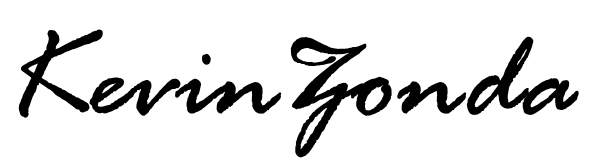
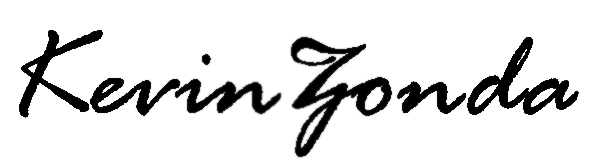
fix signature

diff --git a/index.html b/index.html
@@ -2,62 +2,54 @@
 <html lang="en-GB">
 
 <head>
+    <meta charset="utf-8" />
     <title>Certification | Home University Sussex</title>
     <link href="assets/css/style.css" type="text/css" rel="stylesheet" />
+    <meta name="viewport"
+        content="width=device-width,user-scalable=no,initial-scale=1.0,maximum-scale=1.0,minimum-scale=1.0">
 </head>
 
 <body>
-    <div style="height: 40pt;">
-    </div>
 
-    <center>
-        <img class="logo" src="assets/imgs/HMUni.png"></img>
-    </center>
-
-    <div style="height: 40pt;"></div>
+    <img class="logo" src="assets/imgs/HMUni.png"></img>
 
     <content>
         <p>
             It is hereby certified that
         </p>
-        <p id="mention">
+        <p class="mention">
             {{Cert.Owner}}
         </p>
 
         <p>
             Was admitted to the Degree of
         </p>
-        <p id="mention">
+        <p class="mention">
             {{Cert.Degree}} of Lie Flat
         </p>
         <p style="font-style:italic;">
             with First Class Honours
         </p>
         <p>
-
             on the {{Cert.Date}}
         </p>
 
         </p>
     </content>
 
-    <div style="height: 40pt;"></div>
+    <div class="signature-box">
+        <img src="assets/imgs/kv.png"></img>
 
-    <div>
-        <div class="left">
-            <img class="signature" src="assets/imgs/kv.png"></img>
-            <p>
-                VICE-CHANCELLOR AND PRINCIPAL
-            </p>
-        </div>
-        <div class="right">
-            <img class="signature" src="assets/imgs/ak.png"></img>
-            <p>
-                REGISTRAR AND SECRETARY
-            </p>
-        </div>
+        <img src="assets/imgs/ak.png"></img>
+
+        <p>
+            VICE-CHANCELLOR AND PRINCIPAL
+        </p>
+
+        <p>
+            REGISTRAR AND SECRETARY
+        </p>
     </div>
-
 
     <footer>
         Home University, Greater Brighton, Sussex, United Kingdom

diff --git a/assets/css/style.css b/assets/css/style.css
@@ -1,17 +1,41 @@
-p {
+@media (prefers-color-scheme: dark){
+    body {
+        color:white;
+        background: black;
+    }
+
+    .signature-box img {
+        filter: invert(1);
+    }
+}
+
+body{
+    display: flex;
+    flex-direction: column;
+    align-items: center;
     font-family: "Times New Roman", Times, serif;
     font-size: 14pt;
+    margin: auto;
+    padding: 0 10%;
+    max-width: 100vh;
+    justify-content: center;
+}
+
+body > * {
+    margin: 1em 0;
+}
+
+img {
+    object-fit: contain;
 }
 
 footer {
-    font-family: "Times New Roman", Times, serif;
-    font-size: 14pt;
-    margin-top: 30pt;
-    margin-bottom: 15pt;
+    margin-top: 2em;
+    margin-bottom: 1em;
     text-align: center;
 }
 
-#mention {
+.mention {
     font-size: 18pt;
 }
 
@@ -19,28 +43,20 @@ content {
     text-align: center;
 }
 
-.left {
-    float: left;
-    width: 50%;
-    text-align: left;
-}
-
-.right {
-    margin-left: 50%;
-    text-align: right;
-}
-
-
 .logo {
     width: 30%;
     max-width: 180px;
 }
 
-body {
-    margin-left: 10%;
-    margin-right: 10%;
+.signature-box {
+    display: grid;
+    grid-template-rows: auto auto;
+    grid-template-columns: 50% 50%;
+    justify-items: center;
 }
 
-.signature {
-    width: 60%;
+.signature-box > * {
+    max-width: 100%;
+    margin: 0.5em 0;
+    text-align: center;
 }
